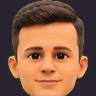
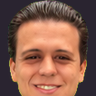
Felipe com o rosto mais fiel; o preparador ignora sombrinha solta embaixo do pé

diff --git a/backend/static/assets/personagens/lista.js b/backend/static/assets/personagens/lista.js
@@ -1,1 +1,1 @@
-window.PERSONAGENS = {"personagens": [{"id": "barbudo", "nome": "Barbudo", "topos": {"0,0": 26, "0,1": 27, "0,2": 29, "0,3": 29, "1,0": 23, "1,1": 24, "1,2": 27, "1,3": 27, "2,0": 39, "2,1": 43, "2,2": 43, "2,3": 43}, "v": 1795714114}, {"id": "christian", "nome": "Christian", "topos": {"0,0": 26, "0,1": 30, "0,2": 27, "0,3": 28, "1,0": 20, "1,1": 22, "1,2": 21, "1,3": 22, "2,0": 38, "2,1": 40, "2,2": 40, "2,3": 40}, "v": 1795714122, "dono": "Christian"}, {"id": "felipe", "nome": "Felipe Vargas", "topos": {"0,0": 26, "0,1": 22, "0,2": 22, "0,3": 21, "1,0": 13, "1,1": 11, "1,2": 14, "1,3": 13, "2,0": 2, "2,1": 2, "2,2": 43, "2,3": 41}, "v": 1795714128, "dono": "Felipe Vargas"}, {"id": "gustavo", "nome": "Gustavo", "topos": {"0,0": 26, "0,1": 25, "0,2": 27, "0,3": 27, "1,0": 17, "1,1": 21, "1,2": 24, "1,3": 24, "2,0": 27, "2,1": 28, "2,2": 31, "2,3": 29}, "v": 1795714139, "dono": "Gustavo"}, {"id": "mota", "nome": "Mota", "topos": {"0,0": 26, "0,1": 26, "0,2": 26, "0,3": 26, "1,0": 2, "1,1": 2, "1,2": 2, "1,3": 2, "2,0": 4, "2,1": 6, "2,2": 5, "2,3": 5}, "v": 1795714133, "dono": "Mota"}], "celula": [220, 300], "base": 288};
+window.PERSONAGENS = {"personagens": [{"id": "barbudo", "nome": "Barbudo", "topos": {"0,0": 26, "0,1": 27, "0,2": 29, "0,3": 29, "1,0": 23, "1,1": 24, "1,2": 27, "1,3": 27, "2,0": 39, "2,1": 43, "2,2": 43, "2,3": 43}, "v": 1795714114}, {"id": "christian", "nome": "Christian", "topos": {"0,0": 26, "0,1": 30, "0,2": 27, "0,3": 28, "1,0": 20, "1,1": 22, "1,2": 21, "1,3": 22, "2,0": 38, "2,1": 40, "2,2": 40, "2,3": 40}, "v": 1795714122, "dono": "Christian"}, {"id": "felipe", "nome": "Felipe Vargas", "topos": {"0,0": 26, "0,1": 25, "0,2": 25, "0,3": 25, "1,0": 13, "1,1": 14, "1,2": 17, "1,3": 16, "2,0": 2, "2,1": 2, "2,2": 44, "2,3": 43}, "v": 1795728720, "dono": "Felipe Vargas"}, {"id": "gustavo", "nome": "Gustavo", "topos": {"0,0": 26, "0,1": 25, "0,2": 27, "0,3": 27, "1,0": 17, "1,1": 21, "1,2": 24, "1,3": 24, "2,0": 27, "2,1": 28, "2,2": 31, "2,3": 29}, "v": 1795714139, "dono": "Gustavo"}, {"id": "mota", "nome": "Mota", "topos": {"0,0": 26, "0,1": 26, "0,2": 26, "0,3": 26, "1,0": 2, "1,1": 2, "1,2": 2, "1,3": 2, "2,0": 4, "2,1": 6, "2,2": 5, "2,3": 5}, "v": 1795714133, "dono": "Mota"}], "celula": [220, 300], "base": 288};

diff --git a/referencia-codara/personagens/processar.py b/referencia-codara/personagens/processar.py
@@ -54,7 +54,32 @@ def tirar_verde(img):
 
 def caixa(img):
     alfa = img.getchannel("A").point(lambda v: 255 if v > 40 else 0)
-    return alfa.getbbox()
+    bb = alfa.getbbox()
+    if not bb:
+        return bb
+    # Uma sombrinha solta embaixo do pé (a IA às vezes desenha) não é corpo:
+    # uma faixa baixa, separada do resto por linhas vazias, sai da caixa —
+    # senão o boneco "flutua" naquela pose.
+    L = alfa.size[0]
+    cheia = [alfa.crop((0, y, L, y + 1)).getbbox() is not None for y in range(bb[1], bb[3])]
+    fim = len(cheia)
+    while True:
+        y = fim - 1
+        while y >= 0 and cheia[y]:
+            y -= 1
+        faixa = fim - 1 - y
+        vazio = 0
+        while y >= 0 and not cheia[y]:
+            y -= 1
+            vazio += 1
+        if y >= 0 and vazio >= 3 and faixa <= 10:
+            fim = y + 1
+        else:
+            break
+    if fim == len(cheia):
+        return bb
+    sub = alfa.crop((0, bb[1], L, bb[1] + fim)).getbbox()
+    return (sub[0], bb[1] + sub[1], sub[2], bb[1] + sub[3])
 
 
 def main(id_, nome, dono=None):
